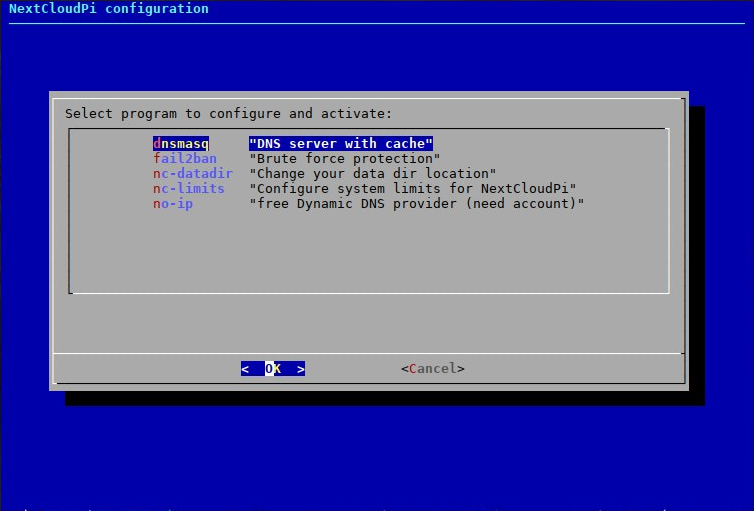
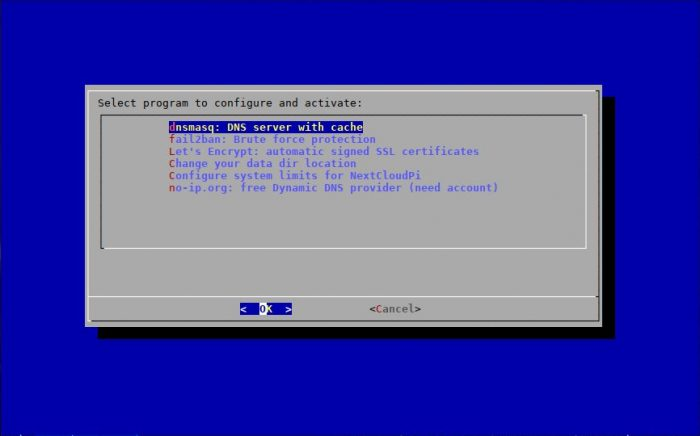
unattended upgrades

diff --git a/README.md b/README.md
@@ -11,7 +11,7 @@ Use QEMU to automatically generate Raspbian Images with Nextcloud
 * Apache 2.4.25, with HTTP2 enabled
 * PHP 7.0 (double the speed of PHP5!)
 * MariaDB 10
-* 4.9.13 Linux Kernel ( NEW 03-13-2017 ) [[ LINK ]]
+* 4.9.13 Linux Kernel ( NEW 03-13-2017 ) 
 * nextcloudpi-config for easy setup
 * Automatic redirection to HTTPS
 * ACPU PHP cache
@@ -19,6 +19,7 @@ Use QEMU to automatically generate Raspbian Images with Nextcloud
 * HSTS
 * Cron jobs for Nextcloud
 * Sane configuration defaults
+* Let’s Ecrypt for trusted HTTPS certificates.(  NEW 03-16-2017 )
 * Fail2Ban protection against brute force attacks. ( NEW 02-24-2017 )
 * Dynamic DNS support for no-ip.org ( NEW 03-05-2017 )
 * dnsmasq DNS server with DNS cache ( NEW 03-09-2017 )
